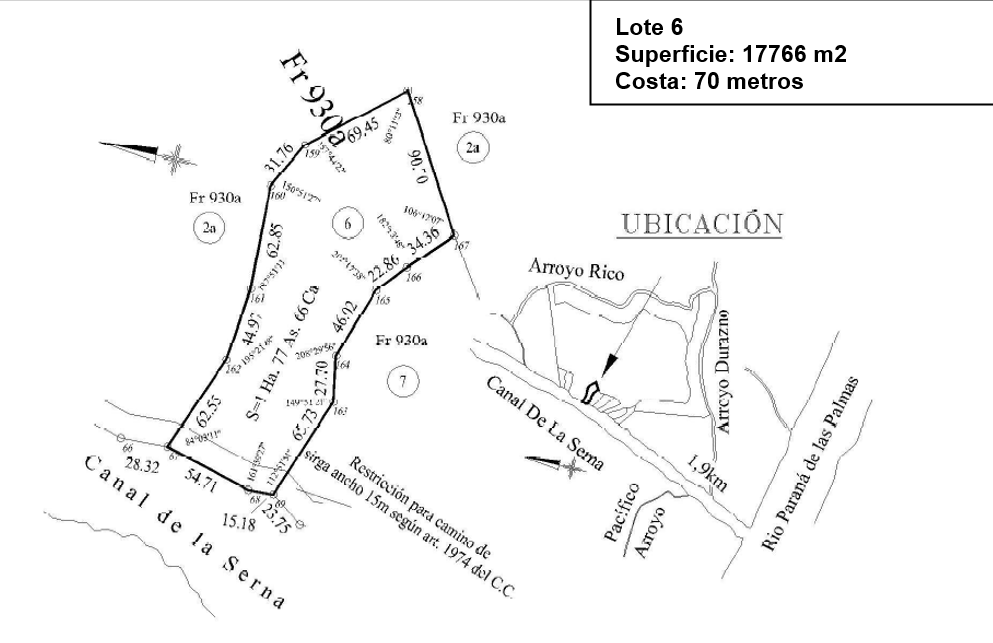
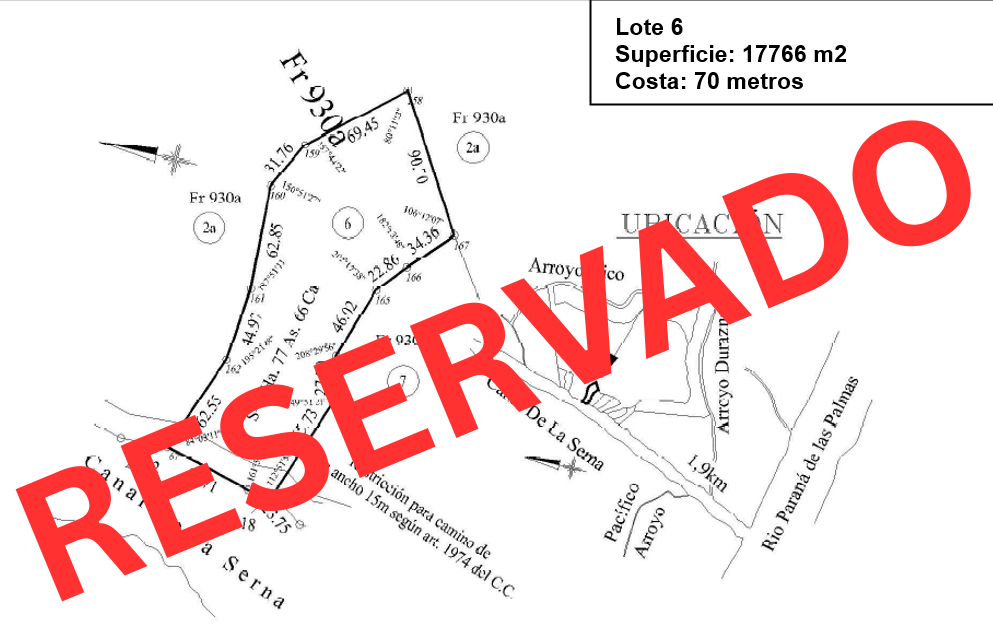
Actualizar planos de lotes

Changed region(s): [[0.0, 0.1866, 0.999, 0.9331]]

diff --git a/index.html b/index.html
@@ -155,11 +155,7 @@
           </div>
 
           <div class="plans-feature-grid">
-            <button class="plan-feature" type="button" data-lightbox="assets/images/lotes/lotes-todos.jpeg" data-caption="Plano general de los lotes disponibles">
-              <img src="assets/images/lotes/lotes-todos.jpeg" alt="Plano general de los lotes disponibles" loading="lazy">
-              <span>Plano general de los lotes disponibles</span>
-            </button>
-            <button class="plan-feature" type="button" data-lightbox="assets/images/lotes/lotes-todos-google-earth.jpeg" data-caption="Vista satelital aproximada del conjunto">
+            <button class="plan-feature plan-feature-wide" type="button" data-lightbox="assets/images/lotes/lotes-todos-google-earth.jpeg" data-caption="Vista satelital aproximada del conjunto">
               <img src="assets/images/lotes/lotes-todos-google-earth.jpeg" alt="Vista satelital aproximada del conjunto de lotes" loading="lazy">
               <span>Vista satelital aproximada del conjunto</span>
             </button>

diff --git a/styles.css b/styles.css
@@ -681,6 +681,10 @@ h3 {
   object-fit: contain;
 }
 
+.plan-feature-wide {
+  grid-column: 1 / -1;
+}
+
 .plan-card img {
   aspect-ratio: 16 / 10;
   object-fit: contain;
